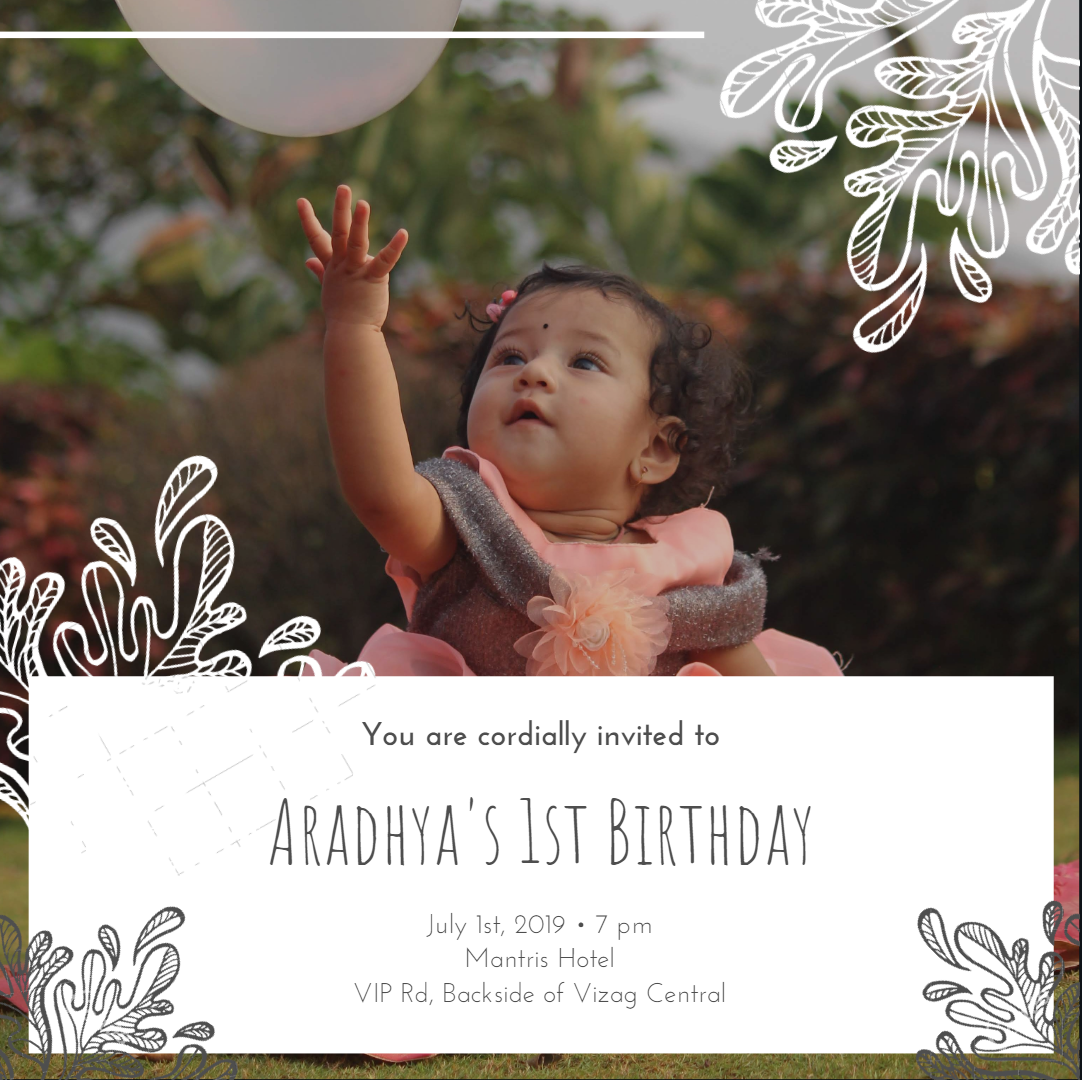
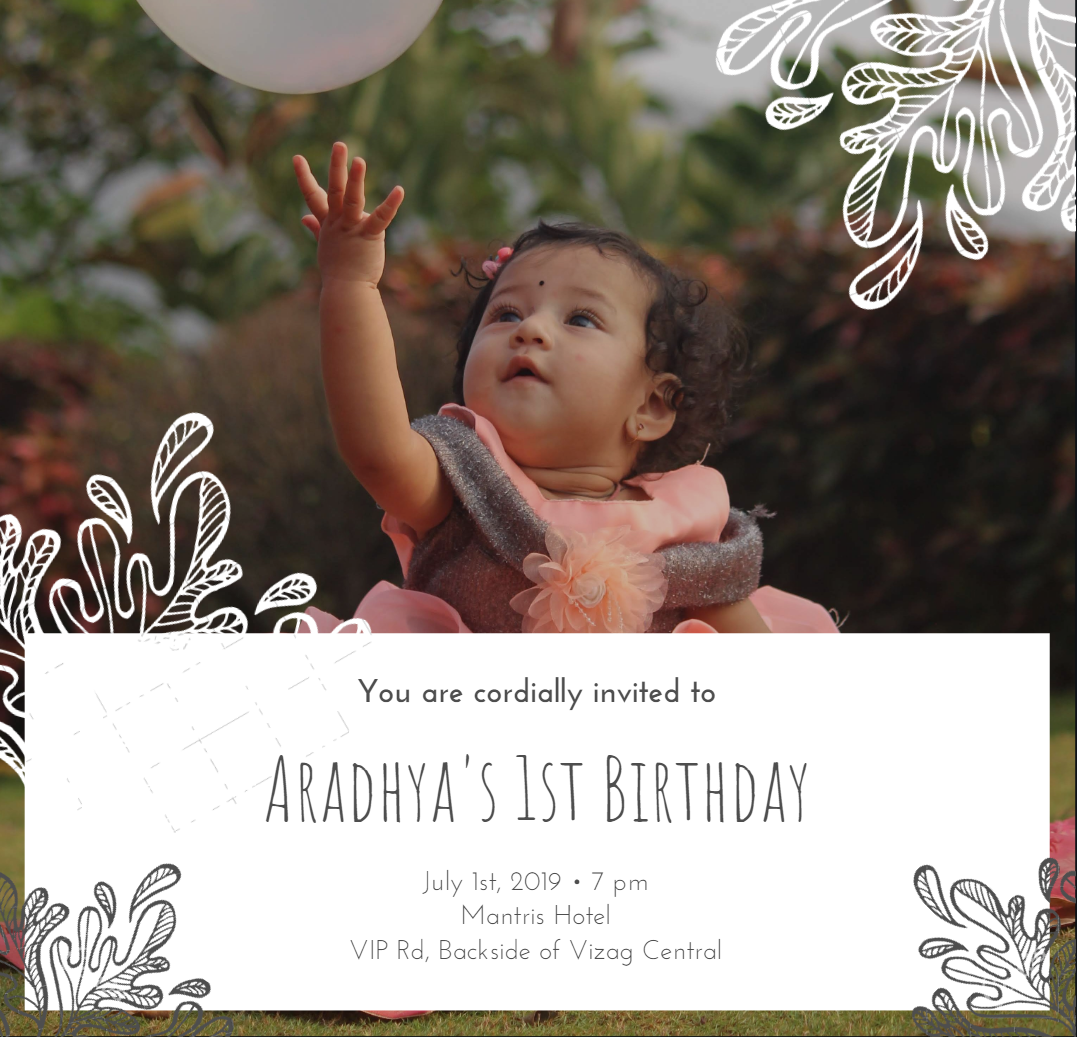
aa

diff --git a/_site/kippy.html b/_site/kippy.html
@@ -1,1 +1,1 @@
-<p><img src="images/img/kippy.PNG" /></p>
+<p><img src="images/img/kippy.PNG" style="width:100%" /></p>

diff --git a/kippy.md b/kippy.md
@@ -2,4 +2,4 @@
 title: Kippy
 ---
 
-<img src="images/img/kippy.PNG">
+<img src="images/img/kippy.PNG" style="width:100%">
